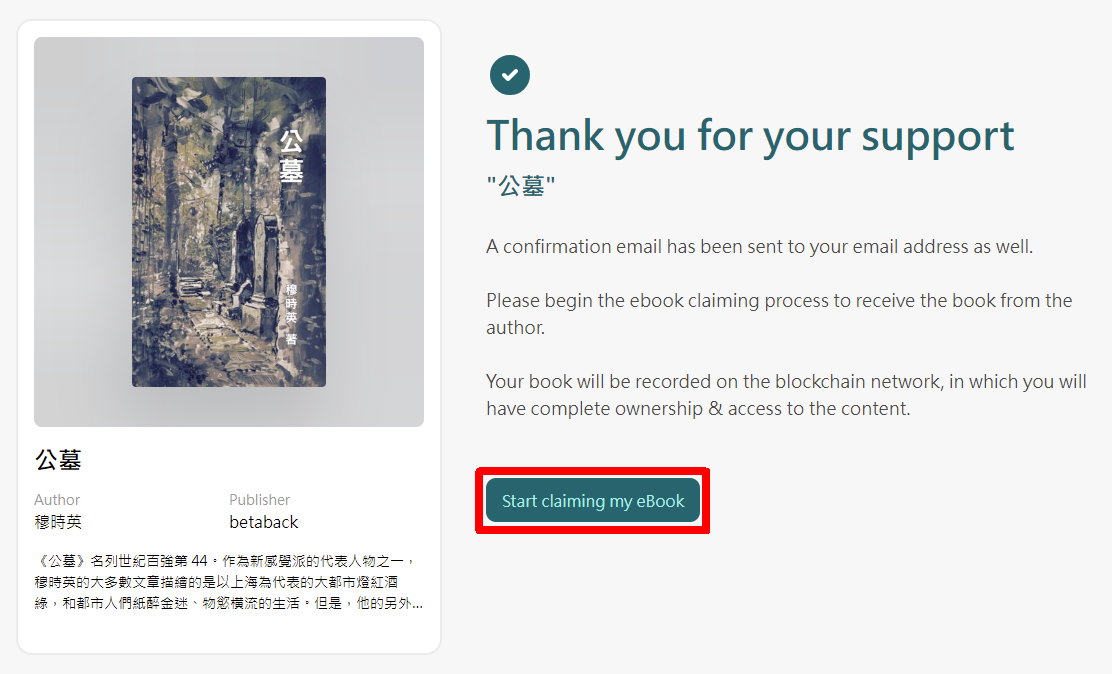
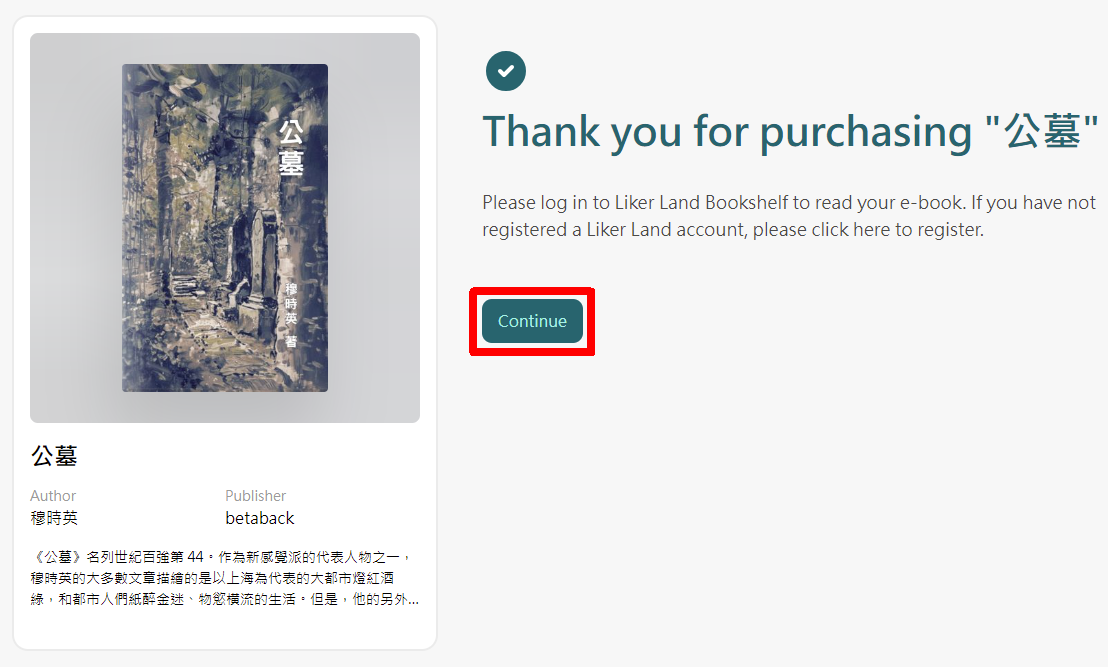
GITBOOK-4682: Purchase ebooks

diff --git a/depub/ebook/README.md b/depub/ebook/README.md
@@ -48,9 +48,11 @@ On the Stripe page, enter your email and credit card information, then click "Pa
 
 ## Step 5: Successful Purchase of ebook
 
-A page pops up saying Thank you for your support, click "Start Claiming my eBook" to receive the ebook. At the same time, you will also receive an email to claim the book.
+A page pops up saying Thank you for your support, click "Continue" to receive the ebook. At the same time, you will also receive an email to claim the book.
 
 <figure><img src="../../.gitbook/assets/Collect NFT Book 4-en.png" alt=""><figcaption><p> Click "Start Claiming my eBook"</p></figcaption></figure>
+
+Click ‘Read your book’ to start claiming your ebook.
 
 <figure><img src="../../.gitbook/assets/Collect NFT Book 5.png" alt=""><figcaption><p> Email notification of climing an ebook</p></figcaption></figure>
 
